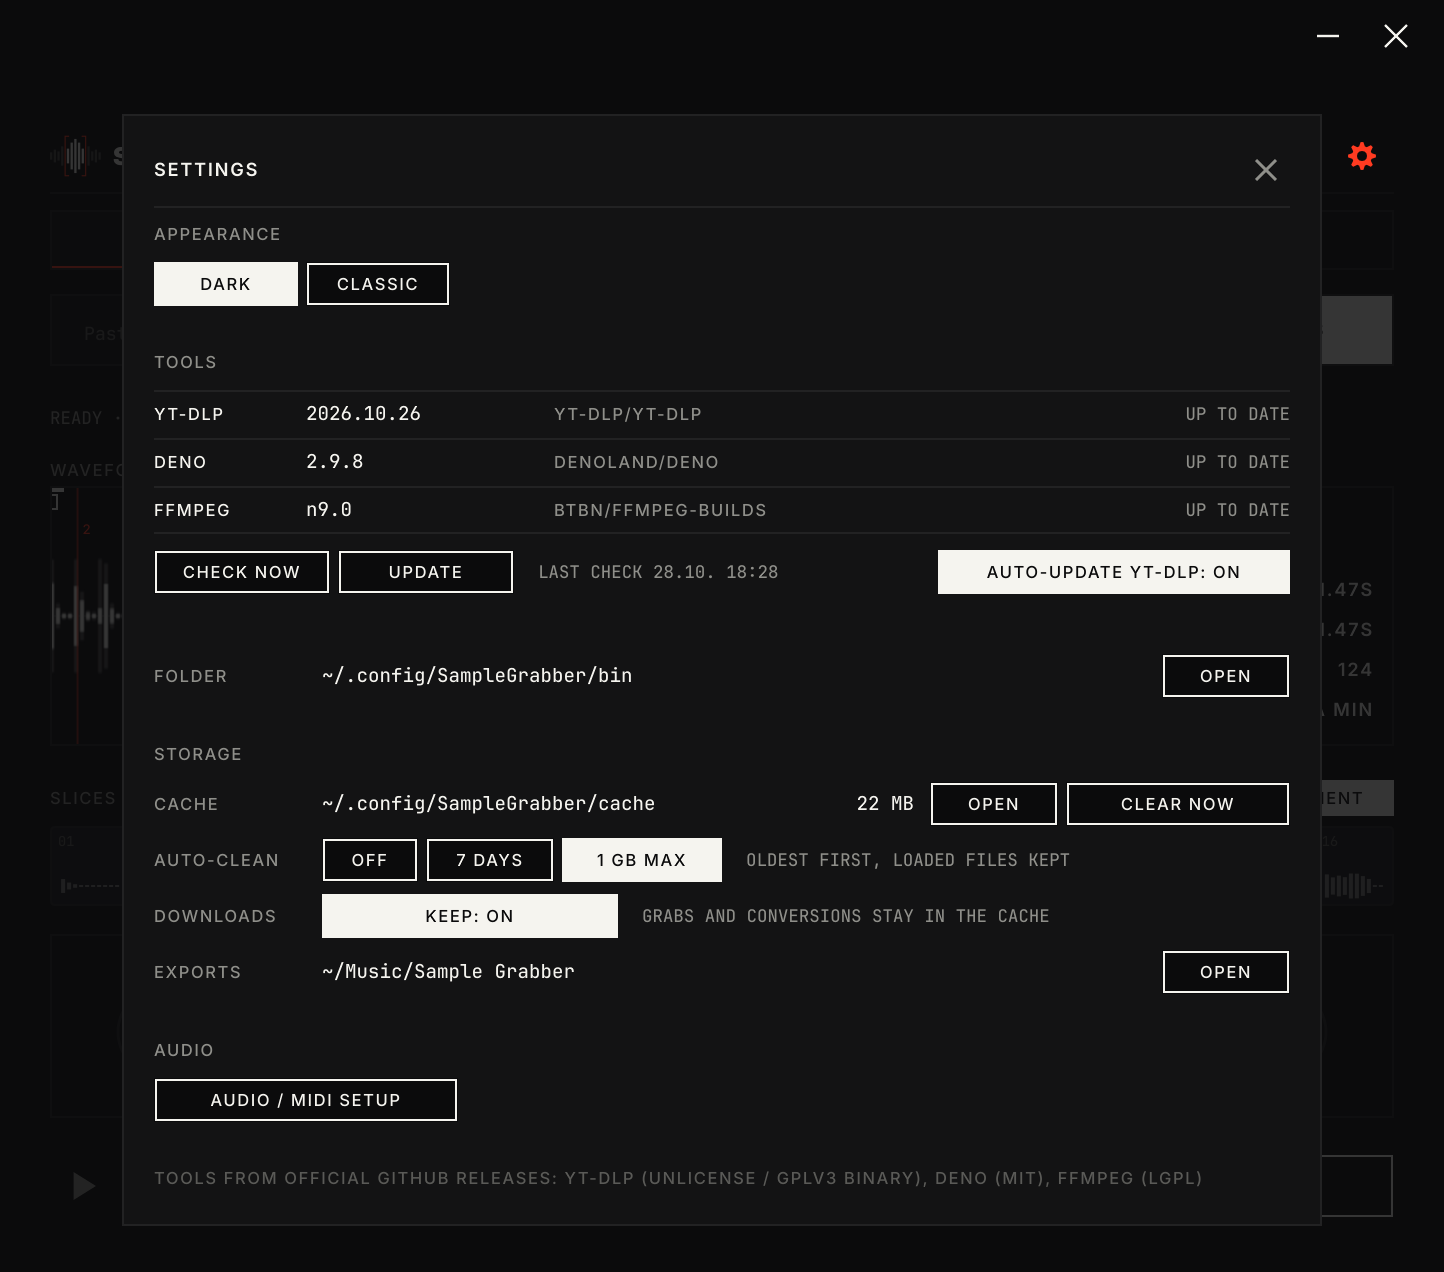
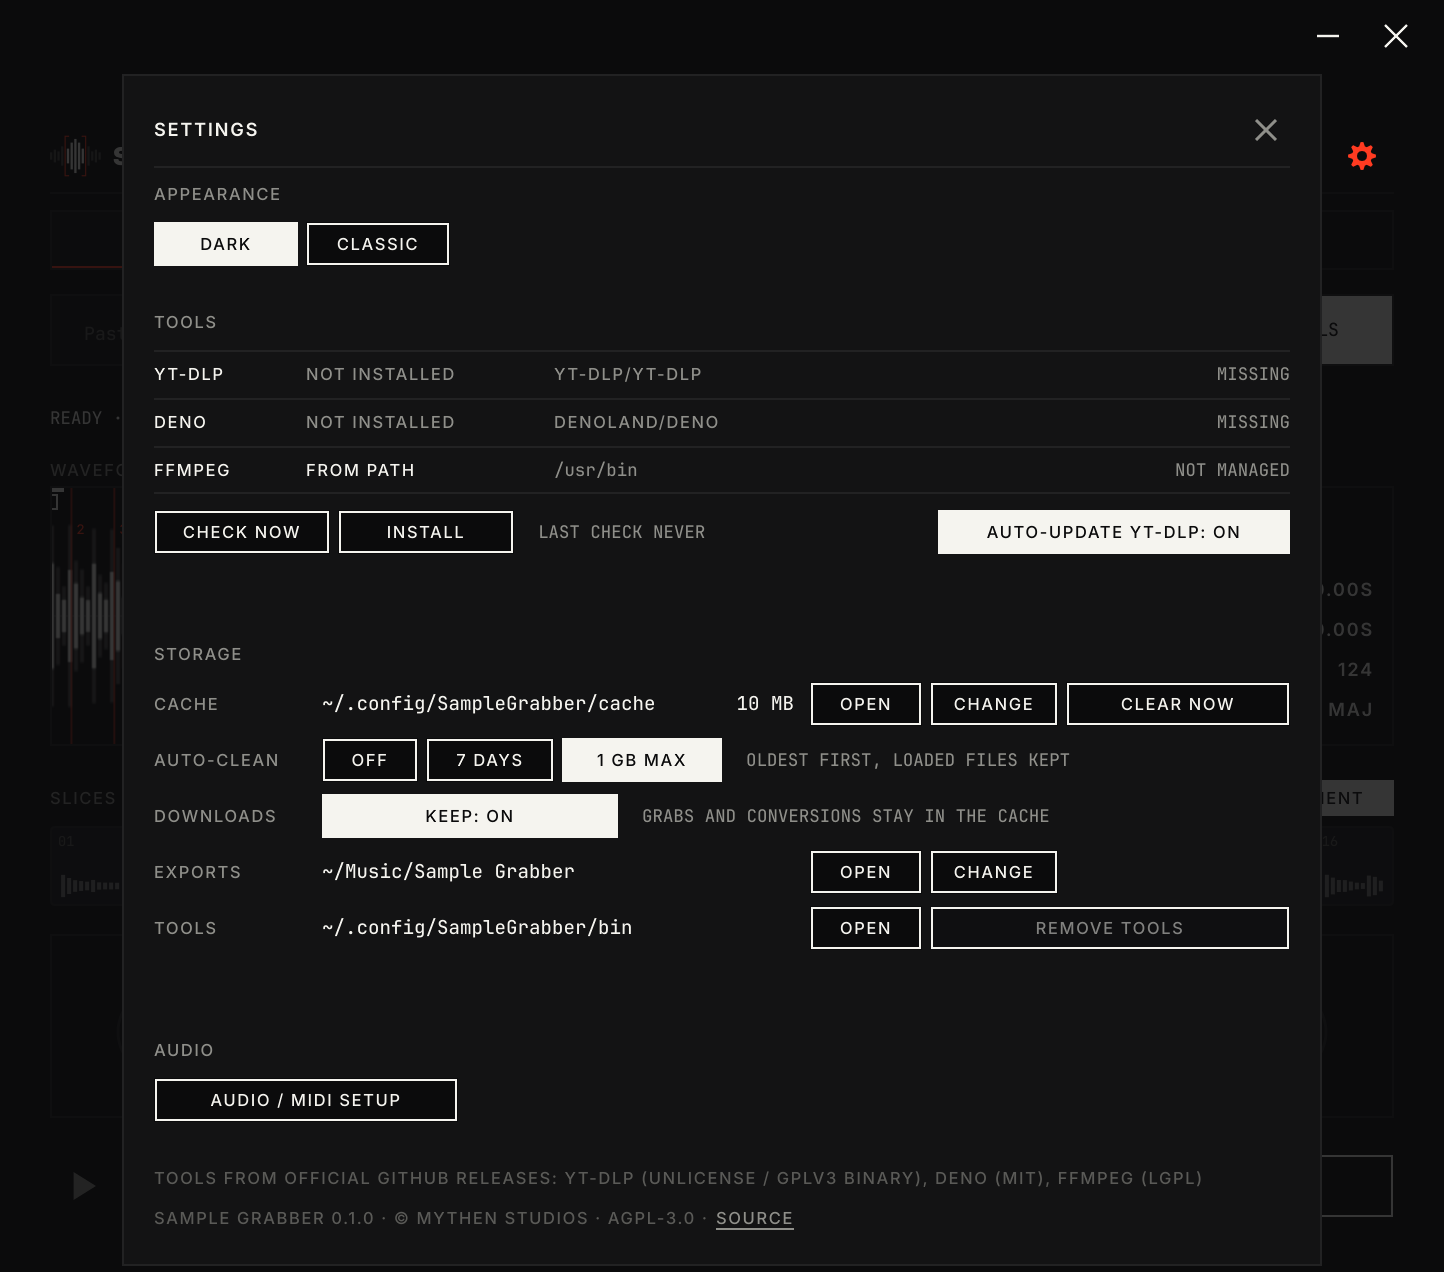
README: accuracy notes for BPM/key/slicing, Windows install and build, new settings screenshot

diff --git a/README.md b/README.md
@@ -25,11 +25,11 @@
 | **Grab** | Paste a YouTube, TikTok, Instagram or Twitch link, a local file path, or drop a file onto the window (WAV, MP3, M4A, Opus, video ...). Grab only a part with a time range (`1:02-1:30`, or `t=` in the link); long downloads can be cancelled. |
 | **Trim** | Waveform with in/out handles, zoom, loop and instant playback. |
 | **Slice** | Auto-slice the selection across 16 pads: **Grid**, **Beat** or **Transient**. Pads respond to clicks and MIDI notes 36-51. |
-| **Analyse** | BPM and key detection on the whole track or the current selection, with tempo octave `/2` `x2`. |
+| **Analyse** | BPM and key estimate on the whole track or the current selection, with tempo octave `/2` `x2`. A starting point, not a verdict - see [Accuracy](#accuracy). |
 | **Shape** | Gain, pitch and speed (independent, applied live), fade in/out with adjustable curve, drawn right in the waveform. |
-| **Drop** | Drag a pad or the whole selection into your DAW as a WAV file (saved under `~/Music/Sample Grabber`). |
+| **Drop** | Drag a pad or the whole selection into your DAW as a WAV file (saved under `Music/Sample Grabber`, folder changeable in the settings). |
 | **Recall** | The plugin state is saved with your DAW project, including the selected audio - it still plays if the download is gone. |
-| **Tools** | yt-dlp, deno and ffmpeg are installed and kept up to date by the app itself - from their official GitHub releases, SHA-256 verified. No Python, no PATH setup. |
+| **Tools** | yt-dlp, deno and ffmpeg are installed and kept up to date by the app itself - from their official GitHub releases, SHA-256 verified. No Python, no PATH setup. One click removes them again. |
 
 <p align="center">
   <img src="docs/media/hero-dark.png" width="49%" alt="Dark theme">
@@ -37,19 +37,47 @@
 </p>
 <p align="center"><sub>Two themes: <b>Dark</b> and <b>Classic</b>.</sub></p>
 
+## Accuracy
+
+BPM, key and the **Beat** / **Transient** slicing are automatic estimates. They are right for most
+straight-ahead tracks, but they will be wrong sometimes - trust your ears over the numbers:
+
+- **Tempo** can come out at half or double speed (e.g. 87 instead of 174), especially with half-time drums,
+  swing or very sparse intros. Use `/2` and `x2`, or analyse a busier part of the track by selecting it.
+- **Key** is shown as the minor key and its relative major (`A MIN / C MAJ`) because both share the same notes.
+  Modal music, strong key changes, atonal parts or heavy detuning can give the wrong result.
+- **Live recordings** with drifting tempo, rubato or tempo changes only get an average tempo.
+- **Slices** follow the detected beats or transients; check the pads and nudge the selection if a cut lands early or late.
+
+Detection runs only on your machine and uses openly documented methods (no proprietary or GPL analysis libraries).
+
 ## Status
 
 Early development. Expect rough edges and breaking changes between commits.
 
 | Platform | State |
 |---|---|
+| Windows 10/11 x64 | Works. Installer, tested in FL Studio and Ableton Live on Windows 11 |
 | Linux x86_64 | Works. Built on Ubuntu 22.04 (glibc 2.35), tested on Ubuntu 26.04 in Ardour, Reaper and Bitwig |
-| Linux ARM64 | Planned (code prepared, not built yet) |
-| Windows x64 / ARM64 | Planned |
+| Windows ARM64, Linux ARM64 | Planned |
 | macOS (Apple Silicon) | Planned |
 
 Known limitations on Linux: in Bitwig, dropping a file *onto the plugin window* does not reach the plugin
 (Bitwig keeps the drop) - paste the file path into the link field instead. Dragging pads *out* works everywhere.
+
+## Install (Windows)
+
+Download `SampleGrabber-<version>-windows-x64-setup.exe` and run it.
+
+- The installer is not code-signed yet, so Windows SmartScreen warns on first start:
+  **More info** -> **Run anyway**.
+- **All users** puts the plugin into `C:\Program Files\Common Files\VST3`, the folder every DAW scans (asks for admin rights).
+  **Only me** needs no admin rights, but you may have to add `%LOCALAPPDATA%\Programs\Common\VST3` to your DAW's plugin folders.
+- **Recommended** uses the standard folders; **Advanced** lets you choose components and the plugin, export and cache folders.
+  The summary page shows what goes where, and `INSTALLED-FILES.txt` next to the app lists it again.
+- Uninstall via *Settings -> Apps*. It removes plugin, app, tools, cache and settings; your exported samples stay unless you choose to delete them.
+
+Rescan plugins in your DAW if it does not show up (close the DAW while installing).
 
 ## Install (Linux)
 
@@ -82,16 +110,29 @@ Artefacts:
 - Standalone: `build/SampleGrabberApp_artefacts/Release/Sample Grabber`
 - VST3: `build/SampleGrabber_artefacts/Release/VST3/Sample Grabber.vst3`
 
-On first start the app offers **INSTALL TOOLS** (about 220 MB download: yt-dlp, deno, ffmpeg).
-They go to `~/.config/SampleGrabber/bin` and are managed from the settings (gear icon, top right).
+On first start the app offers **INSTALL TOOLS** (yt-dlp, deno, ffmpeg - about 220 MB on Linux, 385 MB on Windows).
+They go to `~/.config/SampleGrabber/bin` (Windows: `%LOCALAPPDATA%\SampleGrabber\bin`) and are managed
+from the settings (gear icon, top right), together with the cache and export folders.
 At runtime Linux needs `curl`, `tar` and `xz`.
 
 `bash scripts/package-linux.sh` builds the release tarball into `dist/`.
 
 Developing in WSL2? `scripts/setup-wsl.sh` installs the build dependencies, `scripts/wsl-audio.sh` routes ALSA to WSLg's PulseAudio.
 
+## Build (Windows)
+
+Requirements: Visual Studio 2022 (Desktop development with C++), CMake 3.22+, Git.
+Optional: [Inno Setup 6.7+](https://jrsoftware.org/isinfo.php) for the installer.
+
+```powershell
+cmake -S . -B build -G "Visual Studio 17 2022" -A x64
+cmake --build build --config Release --target SampleGrabber_VST3 SampleGrabberApp
+```
+
+The installer is built from `installer/SampleGrabber.iss` (see the comment at its top); CI does this on every push.
+
 <p align="center">
-  <img src="docs/media/settings.png" width="70%" alt="Settings: theme, tools, audio">
+  <img src="docs/media/settings.png" width="70%" alt="Settings: theme, tools, storage folders, audio">
 </p>
 
 ## Third-party software
@@ -103,6 +144,7 @@ Developing in WSL2? `scripts/setup-wsl.sh` installs the build dependencies, `scr
 | [Inter](https://rsms.me/inter/), [JetBrains Mono](https://www.jetbrains.com/lp/mono/) | UI fonts (`resources/fonts`) | SIL OFL 1.1 |
 | [yt-dlp](https://github.com/yt-dlp/yt-dlp) | Downloading (separate process, downloaded at runtime) | Unlicense; release binaries include GPLv3+ code |
 | [deno](https://github.com/denoland/deno) | JavaScript runtime for yt-dlp (YouTube) | MIT |
+| [Inno Setup](https://jrsoftware.org/isinfo.php) | Windows installer (build tool, not part of the app) | Inno Setup License |
 | [FFmpeg](https://ffmpeg.org) ([BtbN builds](https://github.com/BtbN/FFmpeg-Builds), LGPL variant) | Decoding / conversion (separate process) | LGPL 2.1+ |
 
 The external tools are never bundled with Sample Grabber. They are downloaded by the user's machine from their official releases and run as separate programs.
